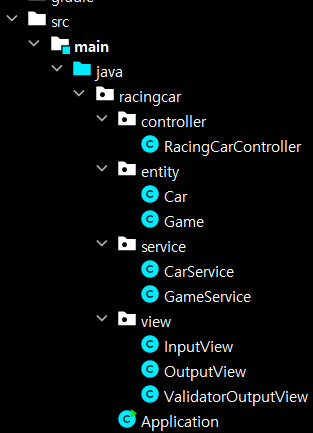
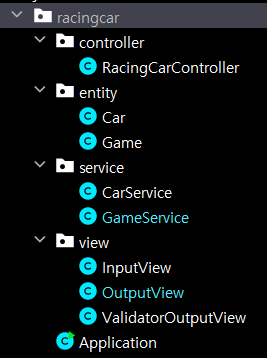
📝 Docs: README.md 파일 구조 수정

diff --git a/src/main/java/racingcar/view/OutputView.java b/src/main/java/racingcar/view/OutputView.java
@@ -8,7 +8,6 @@ public class OutputView {
     static final String FINAL_WINNER_MESSAGE = "최종 우승자 : ";
     static final String OUTPUT_TEMPLATE = " : ";
 
-
     public static void executionResultInfoMessage() {
         System.out.println();
         System.out.println(EXECUTION_RESULT_MESSAGE);
@@ -29,7 +28,4 @@ public class OutputView {
         String result = String.join(", ", winnerCars);
         System.out.println(result);
     }
-
-
-
 }

diff --git a/src/main/java/racingcar/service/GameService.java b/src/main/java/racingcar/service/GameService.java
@@ -80,6 +80,8 @@ public class GameService {
 
     private String[] handleReEntryForSingleCarName() {
         throw new IllegalArgumentException(ValidatorOutputView.getRetryInputCarNamesMessage());
+        //String retryInput = InputView.displayCarNamesMessage();
+        //return promptForStringCarNames(retryInput);
     }
 
     /* ---- 예외처리 함수 ---- */
